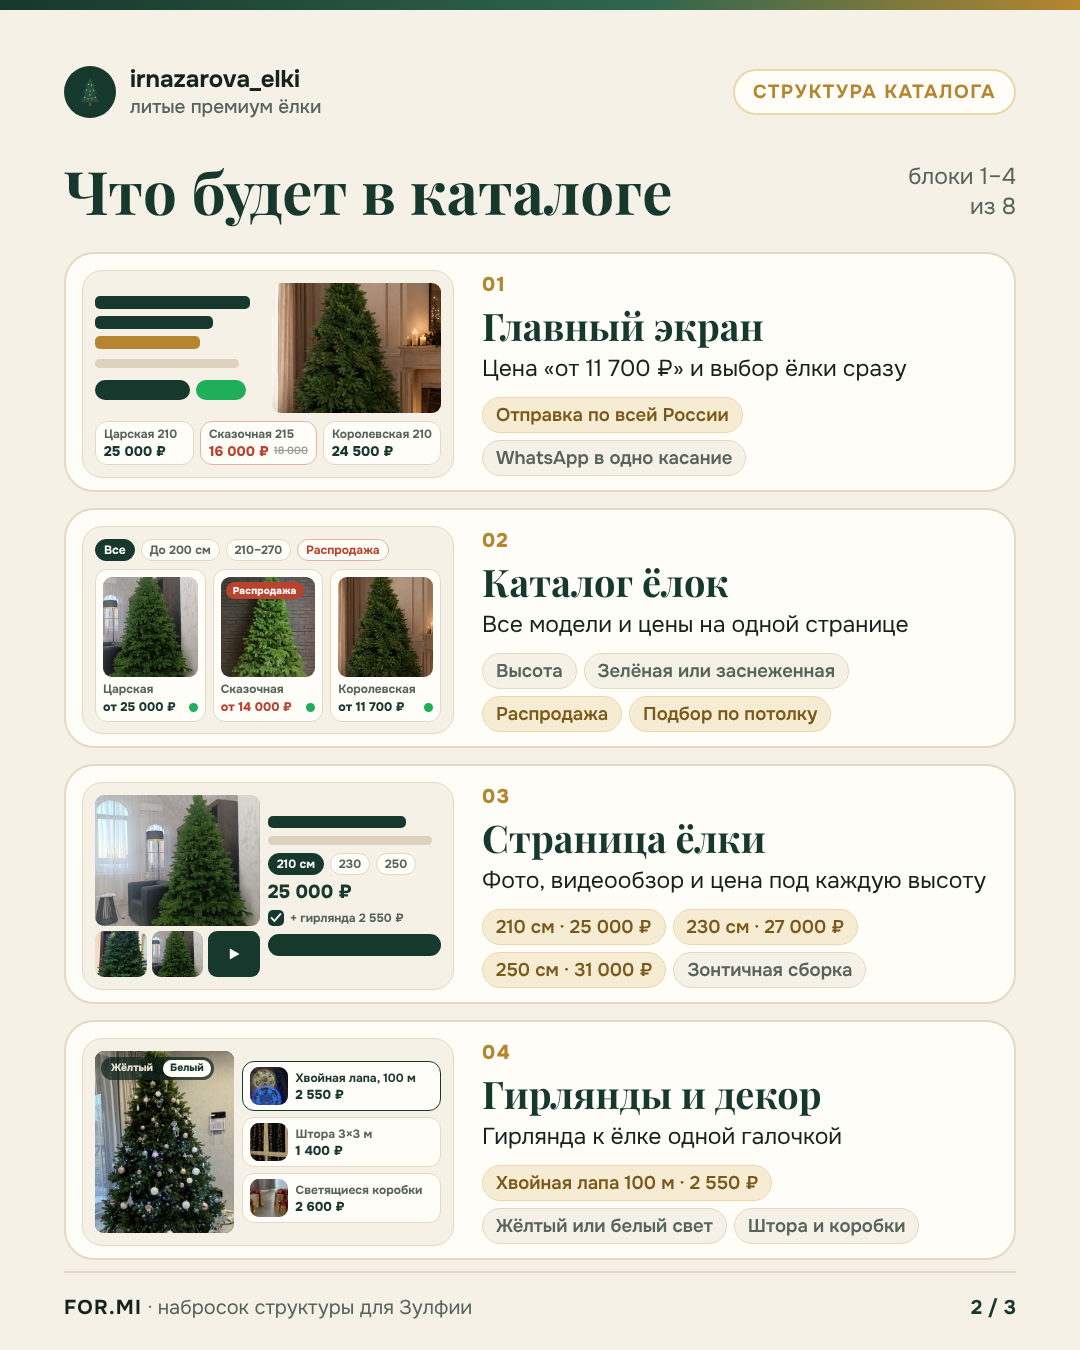
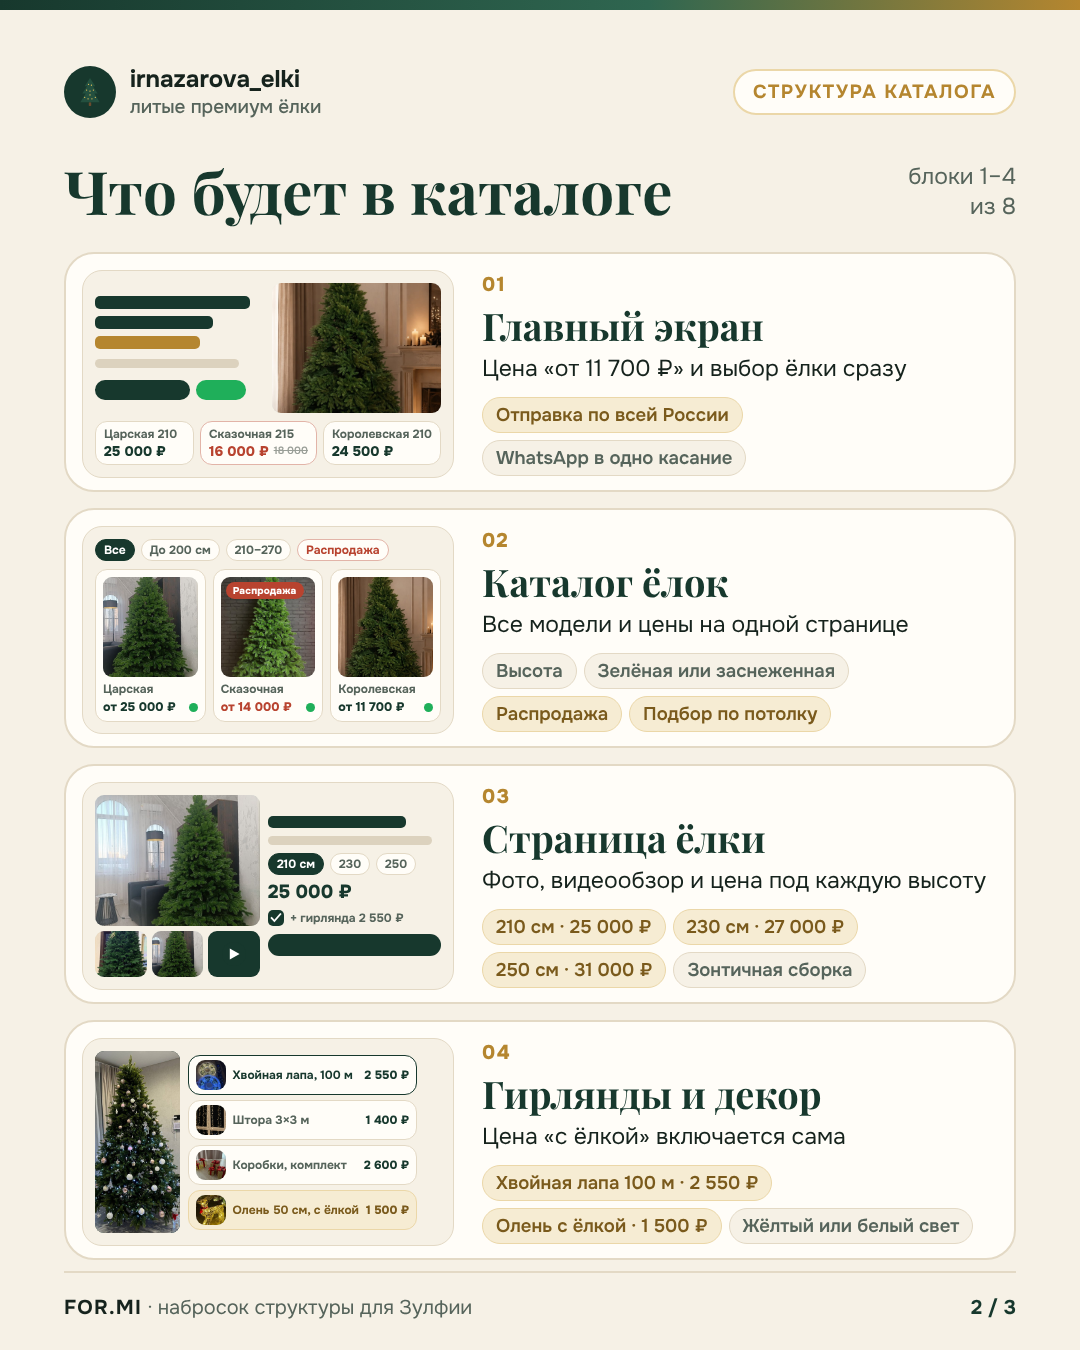
Ёлки Зулфии: олень и новые фото декора в структуре и разборе
Claude-Session: https://claude.ai/code/session_01MqcZMGjxBWFrRhdN41bFta

Changed region(s): [[0.0611, 0.7778, 0.3972, 0.9333], [0.4583, 0.9022, 0.8861, 0.9333], [0.4583, 0.84, 0.7944, 0.8711]]

diff --git a/irnazarova-elki/analiz.html b/irnazarova-elki/analiz.html
@@ -179,7 +179,7 @@ footer b{font-weight:800;letter-spacing:.06em;color:#F7F1E4}
       <li><span><b>Одиннадцать высот от&nbsp;150 до&nbsp;270&nbsp;см и&nbsp;цены от&nbsp;11&nbsp;700 до&nbsp;34&nbsp;000&nbsp;₽.</b> Есть ёлка и&nbsp;для детской в&nbsp;квартире, и&nbsp;для гостиной с&nbsp;высоким потолком. Сказочная сейчас на&nbsp;распродаже: от&nbsp;14&nbsp;000&nbsp;₽, 215&nbsp;см за&nbsp;16&nbsp;000 вместо 18&nbsp;000&nbsp;₽.</span></li>
       <li><span><b>Вы сами в&nbsp;кадре.</b> «Распаковка Царской ёлки», «Обзор Королевской 270&nbsp;см», «Сказочная ель, самая бюджетная модель»: такие рилс показывают ёлку честнее студийного фото.</span></li>
       <li><span><b>Отправка по&nbsp;всей России.</b> Хайлайт «Города» показывает, что ёлки уже уезжают далеко от&nbsp;Уфы.</span></li>
-      <li><span><b>Гирлянды и&nbsp;декор к&nbsp;ёлке.</b> «Хвойная лапа» на&nbsp;100&nbsp;м за&nbsp;2&nbsp;550&nbsp;₽ для тех, кто берёт ёлку, штора 3×3&nbsp;м за&nbsp;1&nbsp;400&nbsp;₽, светящиеся коробки в&nbsp;серебре и&nbsp;золоте комплектом за&nbsp;2&nbsp;600&nbsp;₽. Это готовые допродажи к&nbsp;каждому заказу.</span></li>
+      <li><span><b>Гирлянды и&nbsp;декор к&nbsp;ёлке.</b> «Хвойная лапа» на&nbsp;100&nbsp;м за&nbsp;2&nbsp;550&nbsp;₽ для тех, кто берёт ёлку, штора 3×3&nbsp;м за&nbsp;1&nbsp;400&nbsp;₽, светящиеся коробки в&nbsp;серебре и&nbsp;золоте комплектом за&nbsp;2&nbsp;600&nbsp;₽, олень 50&nbsp;см за&nbsp;1&nbsp;600&nbsp;₽, а&nbsp;с&nbsp;ёлкой за&nbsp;1&nbsp;500&nbsp;₽. Скидка на&nbsp;декор для покупателей ёлки у&nbsp;вас уже придумана, её осталось показать.</span></li>
       <li><span><b>Материал для&nbsp;сайта уже собран.</b> Отзывы в&nbsp;хайлайте «Отзыв», гирлянды в&nbsp;хайлайте «Гирлянда», живые фото ёлок в&nbsp;интерьерах.</span></li>
     </ul>
     <div class="gal">
@@ -190,7 +190,7 @@ footer b{font-weight:800;letter-spacing:.06em;color:#F7F1E4}
       <figure><img src="img/skazochnaya.jpg" alt="Сказочная ель у кирпичной стены" loading="lazy"><figcaption>Сказочная, распродажа</figcaption></figure>
       <figure><img src="img/obzor.jpg" alt="Обзор Королевской 270 см" loading="lazy"><figcaption>Обзор Королевской 270&nbsp;см</figcaption></figure>
       <figure><img src="img/curtain.jpg" alt="Гирлянда-штора на окне" loading="lazy"><figcaption>Штора «Хвойная лапа» 3×3&nbsp;м</figcaption></figure>
-      <figure><img src="img/boxes-gold.jpg" alt="Светящиеся подарочные коробки в золоте" loading="lazy"><figcaption>Светящиеся коробки</figcaption></figure>
+      <figure><img src="img/nabor.jpg" alt="Ёлка, светящиеся коробки и олень" loading="lazy"><figcaption>Коробки и&nbsp;олень под&nbsp;ёлкой</figcaption></figure>
     </div>
     <p class="cap">Фото, которые вы прислали в&nbsp;WhatsApp</p>
   </section>
@@ -202,7 +202,7 @@ footer b{font-weight:800;letter-spacing:.06em;color:#F7F1E4}
       <li><span>В&nbsp;шапке четыре хита, а&nbsp;про остальное написано «Все цены в&nbsp;ТГ канале». Чтобы узнать цену Королевской 150&nbsp;см, человеку нужно перейти в&nbsp;Telegram и&nbsp;пролистать ленту.</span></li>
       <li><span>Самая доступная цена, 11&nbsp;700&nbsp;₽, в&nbsp;шапку не&nbsp;попала. Кто видит только 25&nbsp;000&nbsp;₽, может решить, что литая ёлка ему не&nbsp;по&nbsp;бюджету, и&nbsp;уйти.</span></li>
       <li><span>Заказ собирается по&nbsp;кусочкам: модель, высота, гирлянда, город, адрес. Каждое сообщение ждёт вашего ответа, а&nbsp;в&nbsp;декабре на&nbsp;это уходят часы.</span></li>
-      <li><span>Цена 2&nbsp;550&nbsp;₽ за&nbsp;«Хвойную лапу» для покупателей ёлки видна только в&nbsp;переписке. Кто не&nbsp;спросил, не&nbsp;знает, что гирлянду можно взять сразу и&nbsp;дешевле.</span></li>
+      <li><span>Цены «для тех, кто берёт ёлку»: гирлянда за&nbsp;2&nbsp;550&nbsp;₽, олень за&nbsp;1&nbsp;500 вместо 1&nbsp;600&nbsp;₽, видны только в&nbsp;переписке. Кто не&nbsp;спросил, не&nbsp;знает, что декор можно взять сразу и&nbsp;дешевле.</span></li>
       <li><span>Производство у&nbsp;моделей разное: Царская из&nbsp;Краснодара, Королевская из&nbsp;Китая. Покупатель ёлки за&nbsp;25–34 тысячи спросит об&nbsp;этом одним из&nbsp;первых, и&nbsp;лучше, если ответ уже стоит в&nbsp;карточке.</span></li>
     </ul>
   </section>
@@ -286,7 +286,7 @@ footer b{font-weight:800;letter-spacing:.06em;color:#F7F1E4}
     <div class="tasks">
       <div><h3>Показывать все модели с&nbsp;ценами</h3><p>Царская, Королевская, Сказочная и&nbsp;заснеженные: высота, цена и&nbsp;наличие на&nbsp;одной странице, распродажа отдельной полкой.</p></div>
       <div><h3>Помогать выбрать высоту</h3><p>Человек указывает потолок, например 2,7&nbsp;м, и&nbsp;видит ёлки до&nbsp;240&nbsp;см.</p></div>
-      <div><h3>Продавать гирлянду вместе с&nbsp;ёлкой</h3><p>«Хвойная лапа» за&nbsp;2&nbsp;550&nbsp;₽ одной галочкой, жёлтый или белый свет. Рядом штора и&nbsp;светящиеся коробки.</p></div>
+      <div><h3>Продавать декор вместе с&nbsp;ёлкой</h3><p>Когда ёлка в&nbsp;корзине, гирлянда и&nbsp;олень сами встают по&nbsp;цене «с&nbsp;ёлкой». Рядом штора и&nbsp;светящиеся коробки.</p></div>
       <div><h3>Собирать доставку в&nbsp;заказ</h3><p>Город и&nbsp;способ доставки указаны сразу, без отдельных вопросов.</p></div>
       <div><h3>Отправлять заказ в&nbsp;WhatsApp</h3><p>Модель, высота, гирлянда, город и&nbsp;телефон одним сообщением.</p></div>
       <div><h3>Показывать ваши видео и&nbsp;отзывы</h3><p>Обзоры и&nbsp;распаковка рядом с&nbsp;каждой моделью, отзывы и&nbsp;города, куда уже отправляли.</p></div>
@@ -324,10 +324,10 @@ footer b{font-weight:800;letter-spacing:.06em;color:#F7F1E4}
     <h2>Что можно предложить вашим покупателям</h2>
     <p class="lead">Это варианты на&nbsp;обсуждение, берите то, что подходит.</p>
     <div class="ideas">
-      <div><h3>Ёлка и&nbsp;гирлянда одной кнопкой</h3><p>Цена 2&nbsp;550&nbsp;₽ для покупателей ёлки у&nbsp;вас уже есть. В&nbsp;каталоге это галочка в&nbsp;карточке, и&nbsp;комплект собирается без вопросов.</p></div>
+      <div><h3>Цена «с&nbsp;ёлкой» сама в&nbsp;корзине</h3><p>Скидки на&nbsp;гирлянду и&nbsp;оленя для покупателей ёлки у&nbsp;вас уже есть. В&nbsp;каталоге они включаются сами, и&nbsp;человек видит, сколько сэкономил.</p></div>
       <div><h3>Бронь на&nbsp;декабрь</h3><p>Покупатель фиксирует ёлку и&nbsp;цену в&nbsp;ноябре, вы отправляете к&nbsp;нужной дате. Меньше суеты в&nbsp;последнюю неделю.</p></div>
       <div><h3>Ёлка в&nbsp;подарок родителям</h3><p>Заказ из&nbsp;одного города с&nbsp;доставкой в&nbsp;другой к&nbsp;нужному дню. Отправка по&nbsp;России у&nbsp;вас уже есть.</p></div>
-      <div><h3>Набор «всё к&nbsp;празднику»</h3><p>Ёлка, «Хвойная лапа», штора на&nbsp;окно и&nbsp;светящиеся коробки одним заказом. Человек получает готовый угол к&nbsp;Новому году, а&nbsp;вы один заказ вместо четырёх.</p></div>
+      <div><h3>Набор «всё к&nbsp;празднику»</h3><p>Ёлка, «Хвойная лапа», светящиеся коробки и&nbsp;олень одним заказом, как на&nbsp;вашем фото у&nbsp;окна. Человек получает готовый угол к&nbsp;Новому году, а&nbsp;вы один заказ вместо четырёх.</p></div>
     </div>
   </section>
 
@@ -335,7 +335,7 @@ footer b{font-weight:800;letter-spacing:.06em;color:#F7F1E4}
     <div class="eyebrow">Вопросы</div>
     <h2>Что нужно уточнить</h2>
     <ol class="qlist">
-      <li>Есть&nbsp;ли заснеженные модели? Что за&nbsp;ёлка в&nbsp;хайлайте «Снеж. кор…»: высоты, цены и&nbsp;фото.</li>
+      <li>Есть&nbsp;ли заснеженные модели? На&nbsp;вечерних фото с&nbsp;оленем ёлка с&nbsp;белыми кончиками: как она называется, какие высоты и&nbsp;цены?</li>
       <li>«Хвойная лапа» за&nbsp;2&nbsp;550&nbsp;₽ продаётся только вместе с&nbsp;ёлкой? Сколько она стоит отдельно? До&nbsp;какого числа идёт распродажа Сказочной?</li>
       <li>Доставка: есть&nbsp;ли самовывоз в&nbsp;Уфе, какими транспортными компаниями отправляете, как считается стоимость?</li>
       <li>Как удобнее принимать оплату: предоплата, перевод, при получении?</li>

diff --git a/irnazarova-elki/struktura.html b/irnazarova-elki/struktura.html
@@ -242,15 +242,16 @@ h1 em{font-style:normal;color:var(--gold)}
 
     <!-- 04 гирлянды и декор -->
     <article class="blk">
-      <div class="wf" style="grid-template-columns:.82fr 1.18fr;align-items:stretch">
-        <div class="ph" style="background:linear-gradient(180deg,#22392F,#17382D)" data-photo="whitelights"><span class="tgl"><span>Жёлтый</span><span class="on">Белый</span></span><svg aria-hidden="true"><use href="#tree-lights"/></svg></div>
-        <div style="display:grid;gap:6px;align-content:center">
-          <div class="card" style="grid-template-columns:38px 1fr;align-items:center;gap:8px;padding:5px 7px;border-color:var(--pine)"><div class="ph" style="height:38px" data-photo="reel"></div><div style="display:grid;gap:4px"><span class="mini" style="color:var(--pine)">Хвойная лапа, 100&nbsp;м</span><span class="price" style="font-size:13px">2&nbsp;550&nbsp;₽</span></div></div>
-          <div class="card" style="grid-template-columns:38px 1fr;align-items:center;gap:8px;padding:5px 7px"><div class="ph" style="height:38px" data-photo="curtain"></div><div style="display:grid;gap:4px"><span class="mini">Штора 3×3&nbsp;м</span><span class="price" style="font-size:13px">1&nbsp;400&nbsp;₽</span></div></div>
-          <div class="card" style="grid-template-columns:38px 1fr;align-items:center;gap:8px;padding:5px 7px"><div class="ph" style="height:38px" data-photo="boxes"></div><div style="display:grid;gap:4px"><span class="mini">Светящиеся коробки</span><span class="price" style="font-size:13px">2&nbsp;600&nbsp;₽</span></div></div>
+      <div class="wf" style="grid-template-columns:.78fr 1.22fr;align-items:stretch">
+        <div class="ph" style="background:linear-gradient(180deg,#22392F,#17382D)" data-photo="whitelights"><svg aria-hidden="true"><use href="#tree-lights"/></svg></div>
+        <div style="display:grid;gap:5px;align-content:center">
+          <div class="card" style="grid-template-columns:30px 1fr auto;align-items:center;gap:7px;padding:4px 7px;border-color:var(--pine)"><div class="ph" style="height:30px" data-photo="reel"></div><span class="mini" style="color:var(--pine)">Хвойная лапа, 100&nbsp;м</span><span class="price" style="font-size:12px">2&nbsp;550&nbsp;₽</span></div>
+          <div class="card" style="grid-template-columns:30px 1fr auto;align-items:center;gap:7px;padding:4px 7px"><div class="ph" style="height:30px" data-photo="curtain"></div><span class="mini">Штора 3×3&nbsp;м</span><span class="price" style="font-size:12px">1&nbsp;400&nbsp;₽</span></div>
+          <div class="card" style="grid-template-columns:30px 1fr auto;align-items:center;gap:7px;padding:4px 7px"><div class="ph" style="height:30px" data-photo="boxes"></div><span class="mini">Коробки, комплект</span><span class="price" style="font-size:12px">2&nbsp;600&nbsp;₽</span></div>
+          <div class="card" style="grid-template-columns:30px 1fr auto;align-items:center;gap:7px;padding:4px 7px;background:var(--gold-t);border-color:var(--gold-l)"><div class="ph" style="height:30px" data-photo="olen"></div><span class="mini" style="color:#7A5A1C">Олень 50&nbsp;см, с&nbsp;ёлкой</span><span class="price" style="font-size:12px;color:#7A5A1C">1&nbsp;500&nbsp;₽</span></div>
         </div>
       </div>
-      <div class="txt"><span class="no">04</span><h3>Гирлянды и&nbsp;декор</h3><p class="why">Гирлянда к&nbsp;ёлке одной галочкой</p><div class="chips"><span class="g">Хвойная лапа 100&nbsp;м · 2&nbsp;550&nbsp;₽</span><span>Жёлтый или белый свет</span><span>Штора и&nbsp;коробки</span></div></div>
+      <div class="txt"><span class="no">04</span><h3>Гирлянды и&nbsp;декор</h3><p class="why">Цена «с&nbsp;ёлкой» включается сама</p><div class="chips"><span class="g">Хвойная лапа 100&nbsp;м · 2&nbsp;550&nbsp;₽</span><span class="g">Олень с&nbsp;ёлкой · 1&nbsp;500&nbsp;₽</span><span>Жёлтый или белый свет</span></div></div>
     </article>
   </div>
 
@@ -347,7 +348,8 @@ const PHOTOS={
   whitelights:["img/garland.jpg","50% 40%"],
   reel:["img/garland-reel.jpg","50% 40%"],
   curtain:["img/curtain.jpg","50% 40%"],
-  boxes:["img/boxes.jpg","50% 55%"],
+  boxes:["img/boxes-photo.jpg","50% 50%"],
+  olen:["img/olen.jpg","50% 45%"],
   decor:["img/decor.jpg","45% 50%"],
   obzor:["img/obzor.jpg","62% 40%"]
 };
